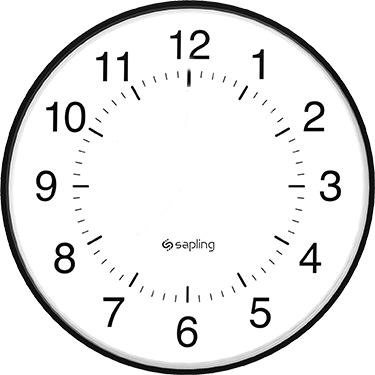
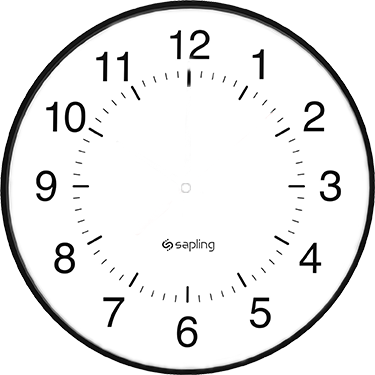
analog clock background set in place. sec hand is ticking albiet incorrectly.

diff --git a/client/src/components/AnalogClock/index.js b/client/src/components/AnalogClock/index.js
@@ -10,14 +10,16 @@ export function AnalogClock({ offset }) {
         }, [offset])
 
 
-    const formatTime = time => time < 10 ? `0${time}` : time,
+    const formatTime = time => {
+        console.log(time)
+        return time < 10 ? `0${time}` : time},
 
     localClock = () => {
         const date = new Date();
-        date.setHours(date.getHours + offset);
-        let hourHand = formatTime(date.getHours),
-         minuteHand = formatTime(date.getMinutes),
-         secondHand = formatTime(date.getSeconds);
+        date.setHours(date.getHours() + offset);
+        let hourHand = formatTime(date.getHours()),
+         minuteHand = formatTime(date.getMinutes()),
+         secondHand = formatTime(date.getSeconds());
          setHands({ hourHand, minuteHand, secondHand })
     }
 
@@ -26,7 +28,7 @@ export function AnalogClock({ offset }) {
     return (
         <div style={mount} >
             <div style={analog}>
-                <div style={{...clockHands, backgroundImage: `url(${require("../../assets/img/second-hand.png")}`, transform: `rotate(${secondHand * 6}deg)`}} />
+                <img src={require('../../assets/img/second-hand.png')} style={{...clockHands, transform: `rotate(${secondHand * 6}deg)`}} />
                 <div style={{...clockHands, transform: `rotate(${minuteHand * 6}deg)`}} />
                 <div style={{...clockHands, transform: `rotate(${hourHand * 30}deg)`}} />             
             </div>
@@ -35,7 +37,7 @@ export function AnalogClock({ offset }) {
 }
 
 const mount = {
-    width: '250px',
+    // width: '400px',  
     textAlign: 'center',
     display: 'flex',
     flexDirection: 'column',
@@ -43,10 +45,15 @@ const mount = {
 },
 analog = {
     width: '250px',
+    height: '250px',
     position: 'relative',
     backgroundImage: `url(${require("../../assets/img/clock-ABS.png")}`,
+    backgroundSize: '250px',
+    backgroundRepeat: 'no-repeat',
+    backgroundPosition: 'center',
 },
 clockHands = {
+    width: '10px',
     position: 'absolute',
     transformOrigin: 'bottom left'
 }
